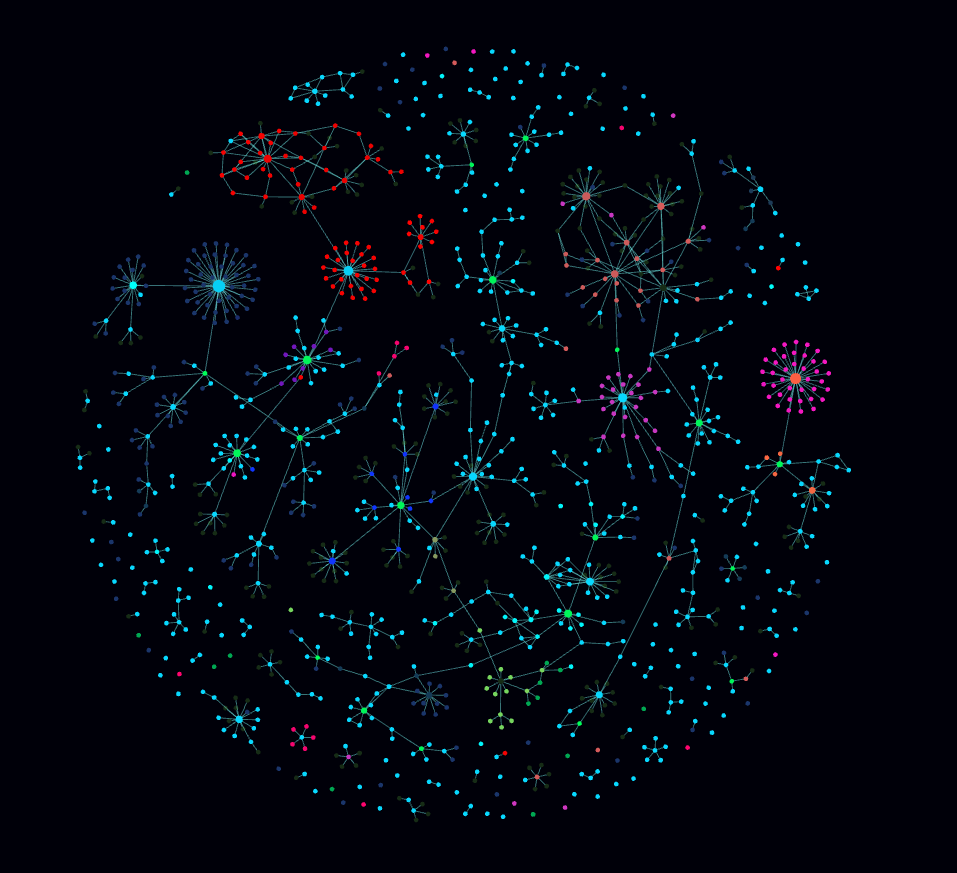
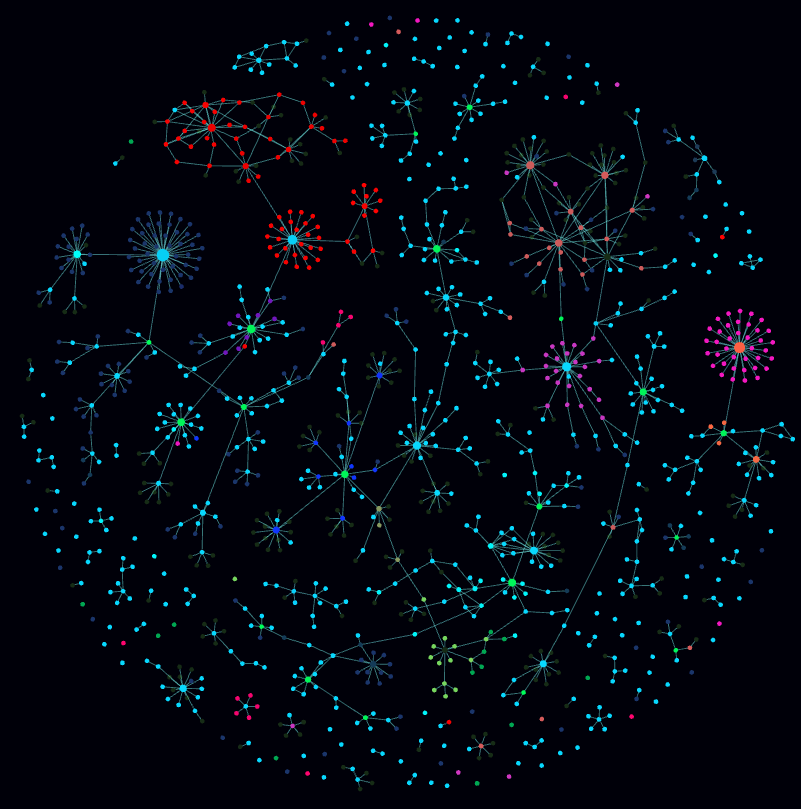
domits page description shortened

diff --git a/Domits-Internship.html b/Domits-Internship.html
@@ -610,12 +610,8 @@
             I also stayed in close contact with the CEO about delivery progress, priorities, and release readiness. This page
             collects the materials that explain both what I built and how I contributed to the engineering process around it.
             <br /><br />
-            Another part of that engineering process was improving how AI could be used in practice. This was not a separate task that was assigned to me:
-            I set it up myself because I wanted working with AI to be more practical, easier for people to start using correctly,
-            and easier to keep aligned with my own ongoing work. My aim was to reduce how much context had to be rebuilt at the start of each task
-            and to make it easier for both me and other users to begin from a more reliable starting point. Using an Obsidian-based context vault, I created a workflow where
-            durable product and engineering knowledge could be reused across chats, handoffs, feature work, and debugging instead
-            of being lost in temporary conversations.
+            I also introduced an Obsidian-based AI context workflow on my own initiative. The goal was to make AI easier to start with,
+            keep work better aligned, and reuse durable product knowledge across chats, handoffs, feature work, and debugging.
           </p>
         </div>
       </section><section id="preview" class="fade-in-up">
